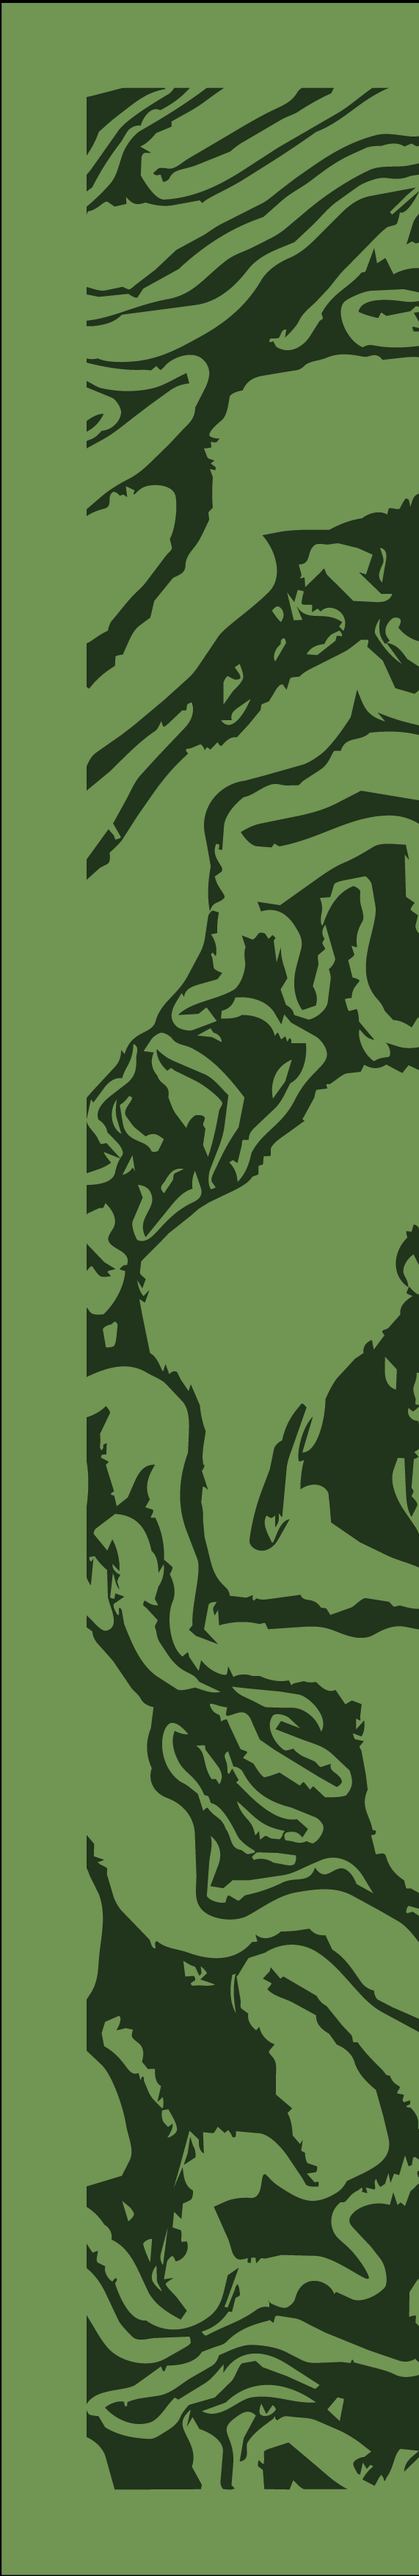
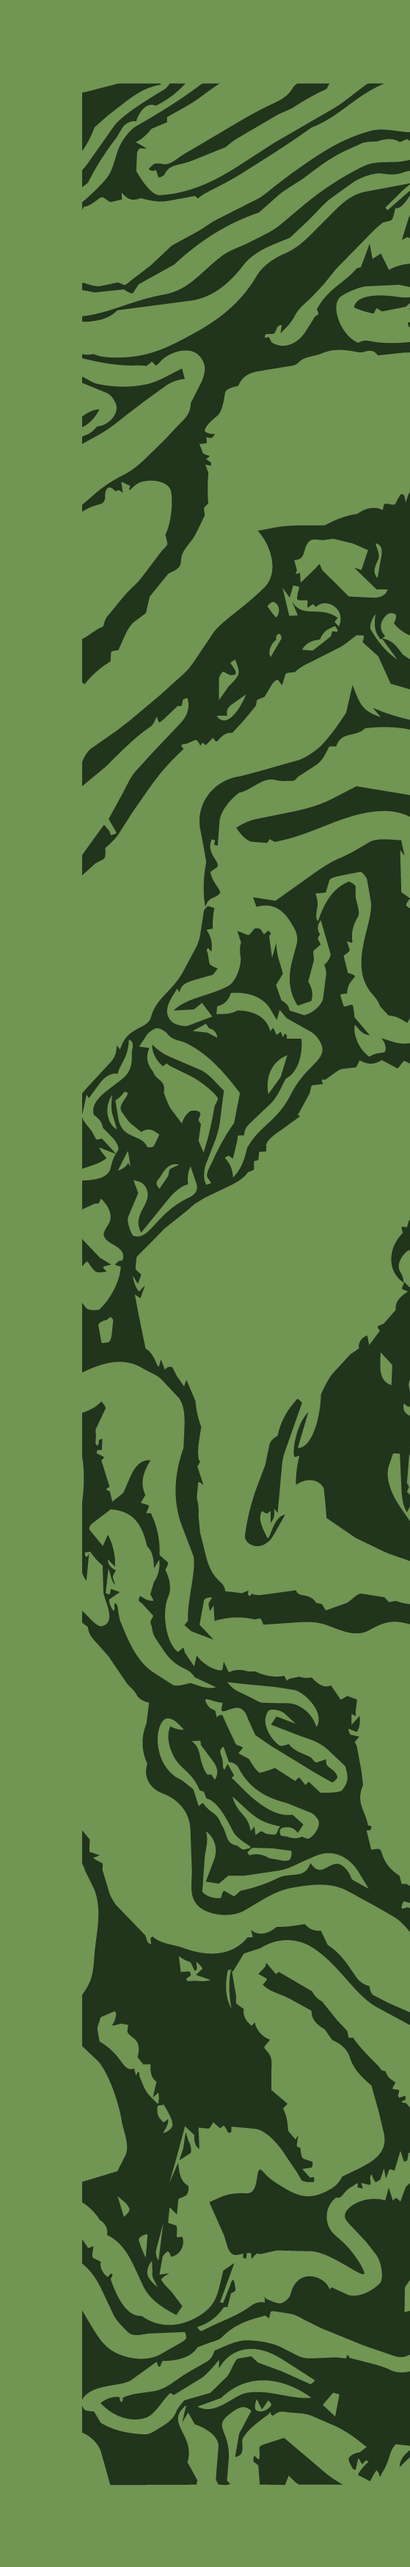
Fix coming-soon cabbage image: crop black border artifact, fill full column height
- Crop 6 px from all sides of cabbage.png to remove black-pixel border
  (cols 0–1 and rows 0–3 were solid black, now gone)
- Switch object-contain → object-cover so the image fills the full
  left-column height on all viewport sizes

diff --git a/resources/views/marketing/coming-soon.blade.php b/resources/views/marketing/coming-soon.blade.php
@@ -59,7 +59,7 @@
                         src="{{ asset('images/chapters/cabbage.png') }}"
                         alt=""
                         aria-hidden="true"
-                        class="absolute inset-0 h-full w-full select-none object-contain object-left"
+                        class="absolute inset-0 h-full w-full select-none object-cover object-left"
                     />
                 </div>
 
